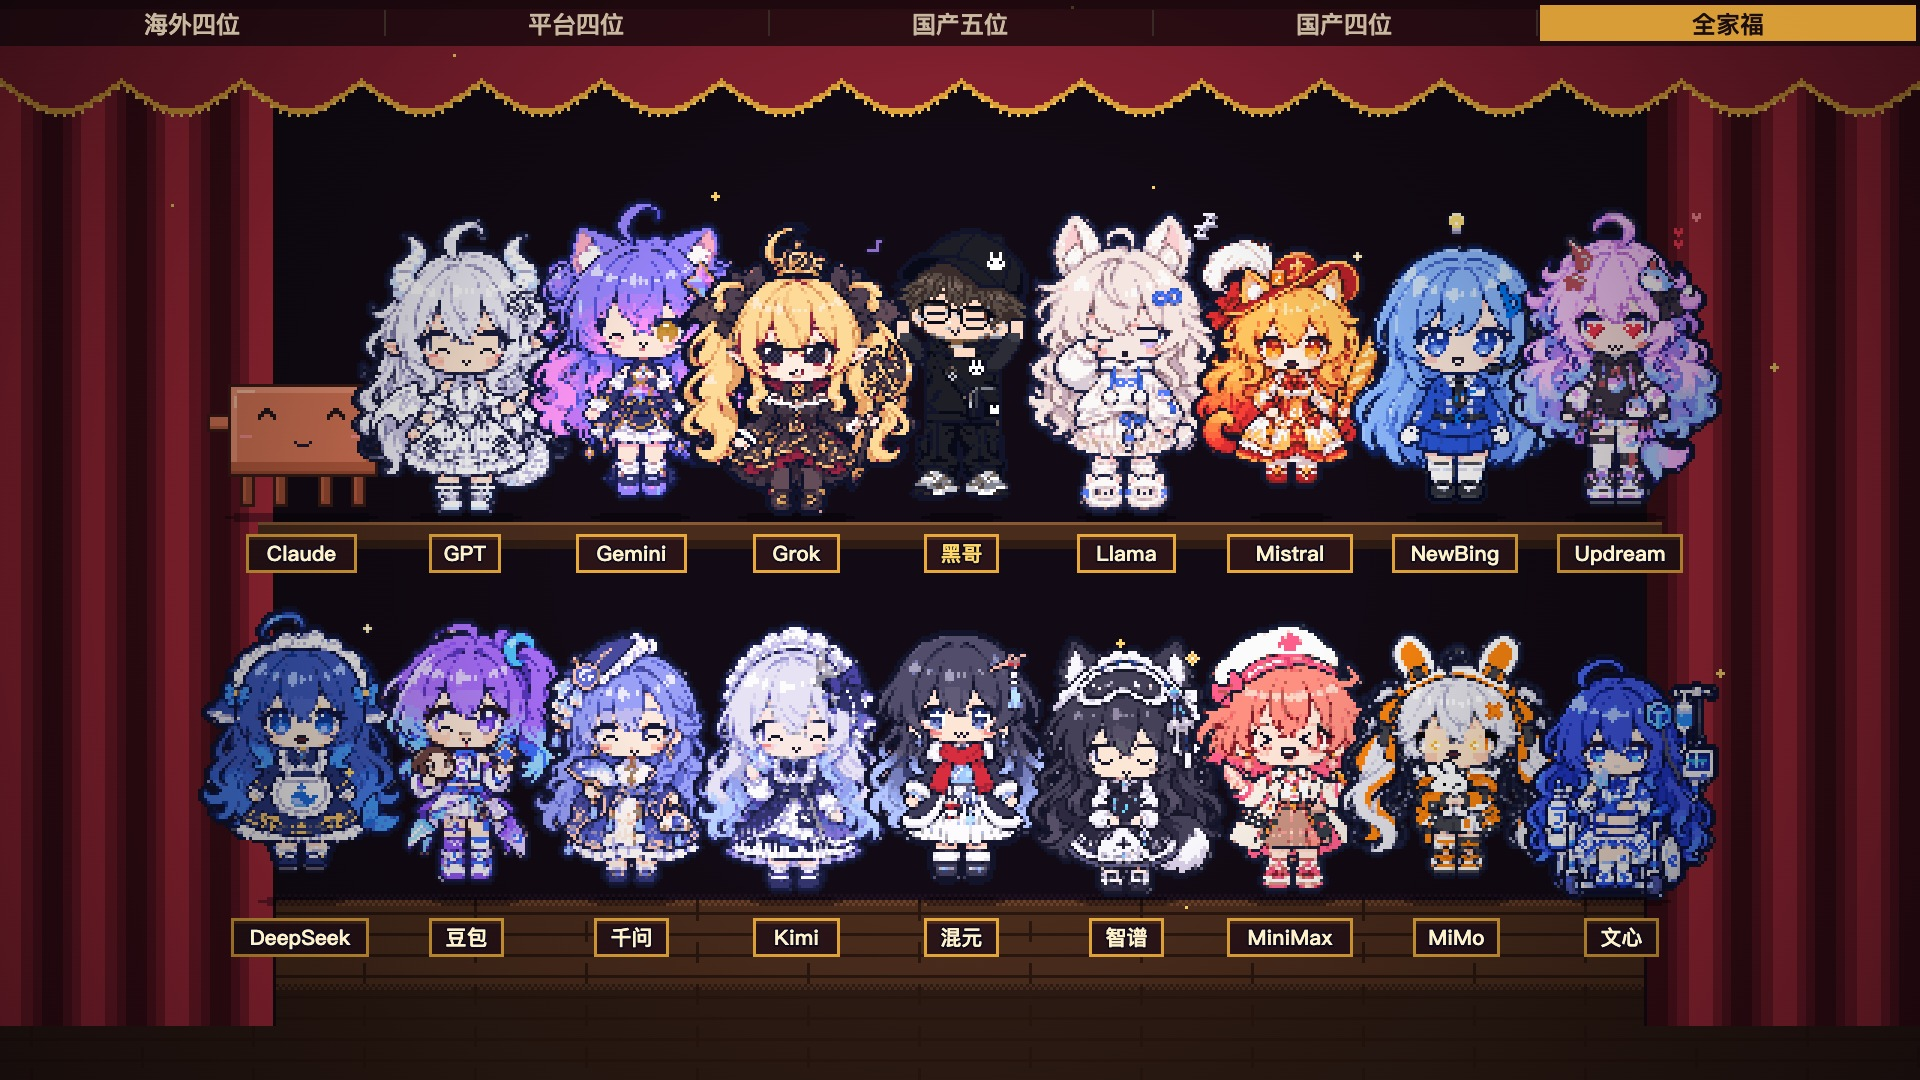
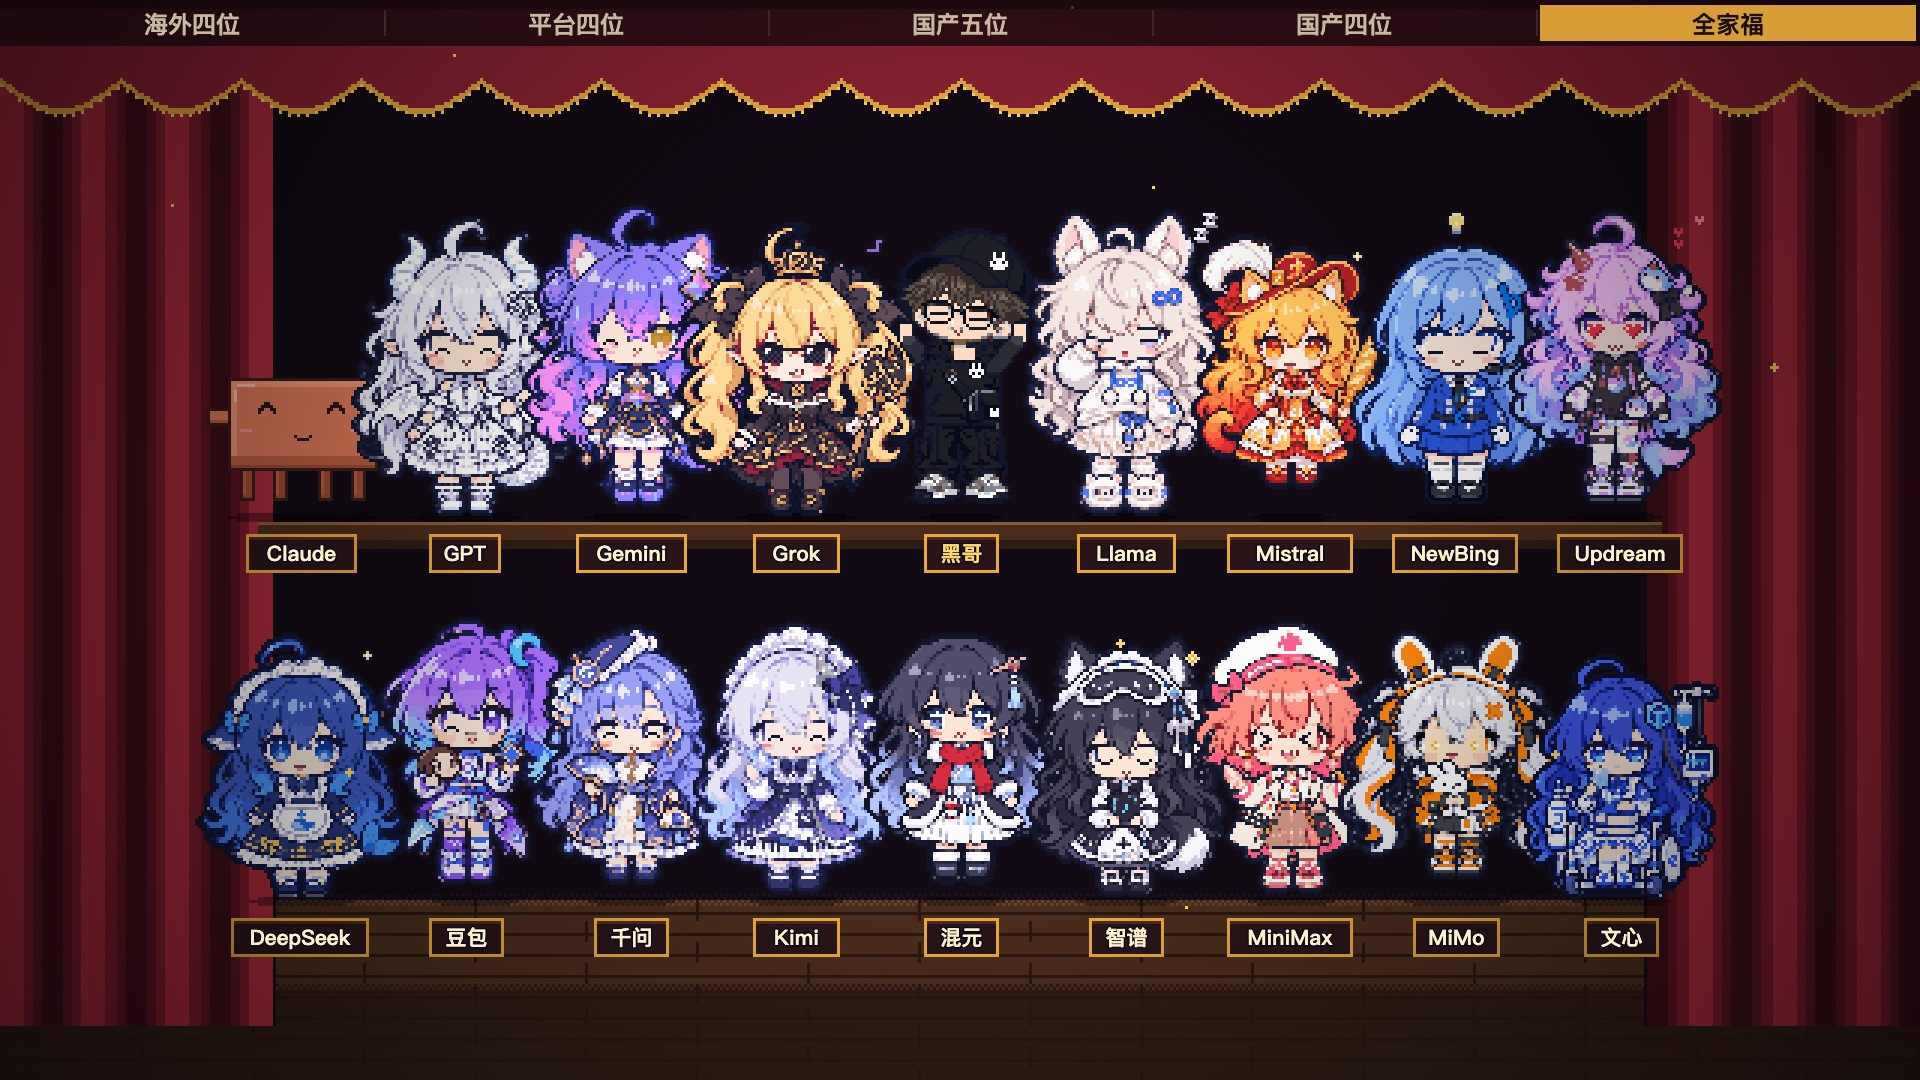
fix(pixel): refine Q-version chibi mouths for DeepSeek and roster

diff --git a/src/pixel/models/models.js b/src/pixel/models/models.js
@@ -33,29 +33,29 @@ const MODEL_RIGS = {"dsChibi":{"w":69,"h":92,"cx":34,"outline":"a","skinKeys":["
 
 const MODEL_U = 4;
 const Q_STAMP_PAL = {
-  '!@': '#12142B', '!#': '#1E1A2E', '!W': '#FFFFFF', '!M': '#5A2430', '!T': '#E8607E', '!t': '#FFF4EC',
+  '!@': '#12142B', '!#': '#1E1A2E', '!L': '#7D3E44', '!l': '#A85C5E', '!W': '#FFFFFF', '!M': '#9E3645', '!T': '#F2798D', '!t': '#FFF7F2',
   '!P': '#F58E8E', '!%': '#E86F78', '!y': '#22A7D6', '!Y': '#8EDCF4', '!R': '#F0384E', '!$': '#A61F35',
   '!A': '#F6B13E', '!a': '#FFE7A6', '!~': '#3A3166', '!K': '#1E1B2E', '!&': '#3B3758',
 };
 
-// Anime 6-7px eye stamps (built cleanly inside each character's eye mask) and compact chibi mouths.
+// Anime 6-7px eye stamps (built cleanly inside each character's eye mask) and delicate rose-umber chibi mouths.
 const Q_MOUTHS = {
-  smile:  { rows: ['#.#', '.#.'] },
-  flat:   { rows: ['###'] },
-  frown:  { rows: ['.#.', '#.#'] },
-  o:      { rows: ['##', '##'] },
-  O:      { rows: ['.#.', '#M#', '.#.'], dy: -1 },
-  grin:   { rows: ['####', '#tt#', '.##.'], dy: -1 },
-  laugh:  { rows: ['#####', '#ttt#', '#MMM#', '.###.'], dy: -1 },
-  open:   { rows: ['.###.', '#MMM#', '.###.'], dy: -1 },
-  wobble: { rows: ['#.#.#', '.#.#.'] },
-  cat:    { rows: ['#.#.#', '.#.#.'] },
-  smirk:  { rows: ['..#', '##.'] },
-  wail:   { rows: ['.####.', '#MMMM#', '#MTTM#', '.####.'], rows2: ['..##..', '.#MM#.', '#MTTM#', '.####.'], dy: -1 },
-  teeth:  { rows: ['#####', '#t#t#', '#####'], dy: -1 },
-  tongue: { rows: ['#.#', '.#.', '.T.'] },
-  pout:   { rows: ['.#.', '#T#', '.#.'], dy: -1 },
-  yawn:   { rows: ['.#.', '#M#', '#T#', '.#.'], dy: -1 },
+  smile:  { rows: ['L.L', '.L.'] },
+  flat:   { rows: ['LLL'] },
+  frown:  { rows: ['.L.', 'L.L'] },
+  o:      { rows: ['MM', 'TT'] },
+  O:      { rows: ['.L.', 'MTM', '.M.'] },
+  grin:   { rows: ['LttL', '.LL.'] },
+  laugh:  { rows: ['LttL', 'MTTM'] },
+  open:   { rows: ['LLLL', '.TT.'] },
+  wobble: { rows: ['.L.l', 'l.L.'] },
+  cat:    { rows: ['L.L.L', '.L.L.'] },
+  smirk:  { rows: ['..L', 'LL.'] },
+  wail:   { rows: ['.LL.', 'MTTM'], rows2: ['.LL.', 'LTTL'] },
+  teeth:  { rows: ['.LL.', 'LttL'] },
+  tongue: { rows: ['L.L', '.T.'] },
+  pout:   { rows: ['.L.', 'MTM'] },
+  yawn:   { rows: ['.L.', 'MTM', '.M.'] },
 };
 
 const Q_EYES_STAMP = {
